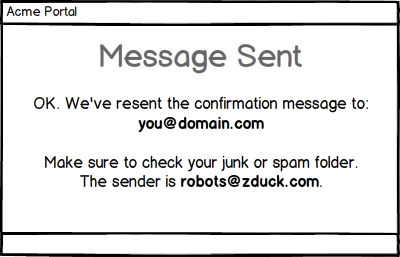
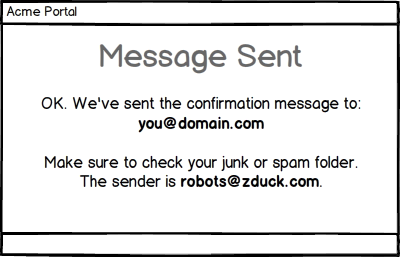
Fixing resent -> re-sent.

Changed region(s): [[0.06, 0.3735, 0.93, 0.4358]]

diff --git a/_posts/2013/2013-08-13-user-sign-up-and-email-confirmation-ux-boilerplate.md b/_posts/2013/2013-08-13-user-sign-up-and-email-confirmation-ux-boilerplate.md
@@ -8,7 +8,7 @@ og_image: signup-boilerplate.png
 
 Sign up, confirm your email address, login. The three steps that almost all web apps share.
 
-It isn't hard to get this process right but it does take some planning. I've had to implement this a lot so I finally decided to document it. This is my boilerplate for a user sign up process. The interaction flow that I use as the starting point for sign ups in my apps. Along the way I'll point out some key UX (User eXperience) tips. I hope this saves you some time on your next project.
+It isn't hard to get this process right but it does take some planning. I've had to implement this a lot so I finally decided to document it. This is my boilerplate for a user sign up process. The interaction flow that I use as the starting point for sign-ups in my apps. Along the way I'll point out some key UX (User eXperience) tips. I hope this saves you some time on your next project.
 
 > The UI mockups are just that. Mockups. This post isn't about the UI of your pages but rather the flow and functionality. The mockups are intended to communicate features, not a specific design or layout.
 
@@ -78,9 +78,9 @@ If they try to continue without confirming their address:
 
 ## Resending the confirmation
 
-Maybe the user's mail server was offline. Maybe they deleted your message without reading it. Maybe it got trapped by an over zealous spam filter. There are any number of ways the message might get lost. The ability to have it resent is a great UX booster that might just save you an otherwise lost user.
+Maybe the user's mail server was offline. Maybe they deleted your message without reading it. Maybe it got trapped by an over zealous spam filter. There are any number of ways the message might get lost. The ability to have it re-sent is a great UX booster that might just save you an otherwise lost user.
 
-![Confirmation message resent mockup]({{site.url}}/assets/forposts/ux-boilerplate-user-sign-up/message-resent.png "Confirmation message resent mockup")
+![Confirmation message sent mockup]({{site.url}}/assets/forposts/ux-boilerplate-user-sign-up/message-resent.png "Confirmation message sent mockup")
 
 ## Changing their email
 
@@ -93,7 +93,7 @@ This is another little detail that can make a big difference. Maybe the user ent
 
 - Show them their current address on the change form.
 
-The confirmation should be resent to the new address and a friendly message shown once again.
+The confirmation should be sent to the new address and a friendly message shown once again.
 
 > All previously sent confirmation links should be disabled at this point for security. You wouldn't want the wrong address to be confirmed, you only want the new one.
 
